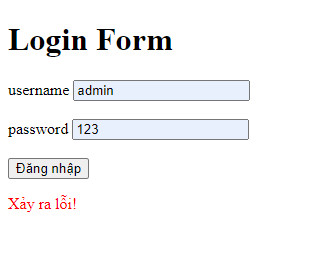
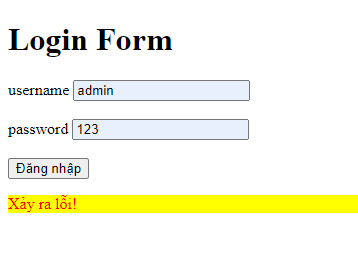
x

diff --git a/client/js/login.js b/client/js/login.js
@@ -24,6 +24,6 @@ form.addEventListener('submit', async function (e) {
         location = 'index.html?msg=2';
     } catch (error) {
         var errorElement = document.querySelector('.error');
-        errorElement.innerHTML = '<p style="color: red">Xảy ra lỗi!</p>';
+        errorElement.innerHTML = '<p style="color: red; background: yellow">Xảy ra lỗi!</p>';
     }
 })

diff --git a/client/js/register.js b/client/js/register.js
@@ -22,6 +22,6 @@ form.addEventListener('submit', async function (e) {
         location = 'index.html?msg=1';
     } catch (error) {
         var errorElement = document.querySelector('.error');
-        errorElement.innerHTML = '<p style="color: red">Xảy ra lỗi!</p>';
+        errorElement.innerHTML = '<p style="color: red; background: yellow">Xảy ra lỗi!</p>';
     }
 })
